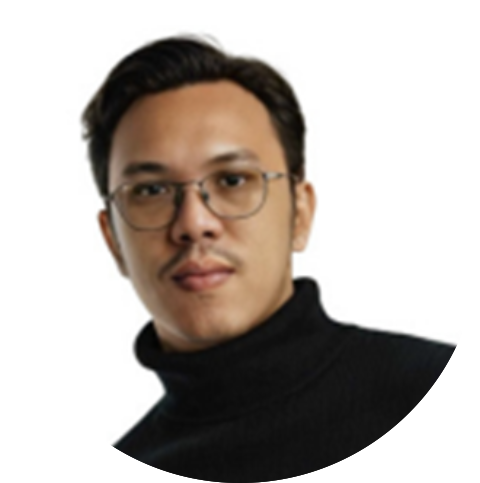
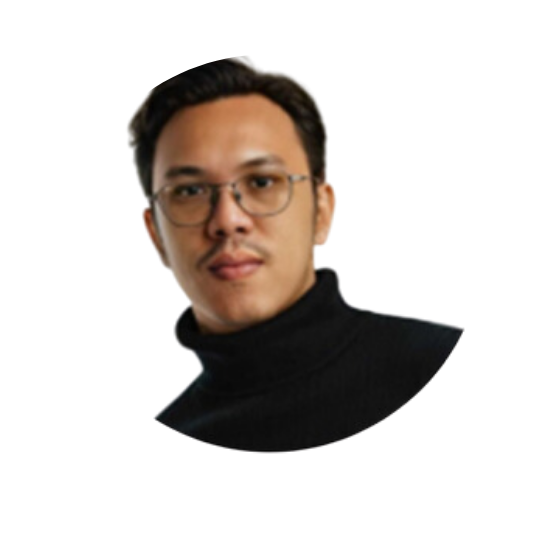
Pics updated and job titles as well

diff --git a/src/components/Team/index.tsx b/src/components/Team/index.tsx
@@ -6,9 +6,9 @@ const teamData: TeamType[] = [
   {
     id: 1,
     name: "Efren Melchor III",
-    designation: "Virtual Assistant",
-    image: "/images/team/Melchor_Efren.png",
-    skills: ["Virtual Assistance", "Social Media Management", "Content Creation"],
+    designation: "Market and Social Media Coordinator",
+    image: "/images/team/Melchor_EfrenIII.png",
+    skills: ["Marketing Data Analysis", "Email Campaign Management", "Lead Management & Prospecting"],
     description: "Committed to continuous learning and delivering top-notch service with enthusiasm for new opportunities.",
     facebookLink: "/#",
     twitterLink: "/#",
@@ -17,9 +17,9 @@ const teamData: TeamType[] = [
   {
     id: 2,
     name: "Michael Pinzon",
-    designation: "Administrative Tools Specialist",
+    designation: "SEO Specialist and Social Media Coordinator",
     image: "/images/team/Pinzon_Michael.png",
-    skills: ["Administrative Tools", "Creative Software", "Optimization"],
+    skills: ["SEO Optimization", "Social Media Management", "Content Creation"],
     description: "Excels at developing and executing strategic plans to enhance client revenue through optimization and data analysis.",
     facebookLink: "/#",
     twitterLink: "/#",
@@ -28,9 +28,9 @@ const teamData: TeamType[] = [
   {
     id: 3,
     name: "Annamoira Homilda",
-    designation: "Data Management Specialist",
+    designation: "Operations and Recruitment Coordinator",
     image: "/images/team/Homilda_Annamoira.png",
-    skills: ["Administrative Tools", "Creative Software", "Data Management"],
+    skills: ["Google Voice Conversations", "Data Entry", "Delivery Route Planning"],
     description: "Dedicated and reliable, thriving in busy environments with strong attention to detail and organizational skills.",
     facebookLink: "/#",
     twitterLink: "/#",
@@ -49,10 +49,10 @@ const teamData: TeamType[] = [
   },
   {
     id: 5,
-    name: "Leneth Logroño",
-    designation: "Creative Software Specialist",
+    name: "Anne Leneth Logroño",
+    designation: "Brand Manager Support Lead",
     image: "/images/team/Logroño_Leneth.png",
-    skills: ["Creative Software", "Administrative Tools", "Marketing Platforms"],
+    skills: ["Social Media Metrics", "Content Creation", "Team Leadership"],
     description: "Strong organizational skills with proven ability to train teams on metrics and product analytics.",
     facebookLink: "/#",
     twitterLink: "/#",
@@ -61,9 +61,9 @@ const teamData: TeamType[] = [
   {
     id: 6,
     name: "Emmanuel Alanis",
-    designation: "Web Developer",
+    designation: "Operations and Full Stack Developer",
     image: "/images/team/Alanis_Emmanuel.png",
-    skills: ["Web Development", "Problem-Solving", "Operations Management"],
+    skills: ["Web Development", "Problem Resolution", "Team Leadership"],
     description: "Streamlines food orders, manages driver communication, and oversees food drives while enhancing customer experiences.",
     facebookLink: "/#",
     twitterLink: "/#",
@@ -72,9 +72,9 @@ const teamData: TeamType[] = [
   {
     id: 7,
     name: "Fernando Cardenas",
-    designation: "Administrative Tools Specialist",
+    designation: "Operations and Web Development",
     image: "/images/team/Cardenas_Fernando.png",
-    skills: ["Administrative Tools", "Web Development", "Problem Solving"],
+    skills: ["Communication", "Team Work", "Web Development"],
     description: "Experienced in customer service, logistics, and administrative skills, currently expanding web development expertise.",
     facebookLink: "/#",
     twitterLink: "/#",
@@ -83,9 +83,9 @@ const teamData: TeamType[] = [
   {
     id: 8,
     name: "Maria Noreen Yap",
-    designation: "Marketing Specialist",
+    designation: "Marketing Coordinator",
     image: "/images/team/Yap_Maria_Noreen.png",
-    skills: ["Marketing Skills", "Operations Management", "Administrative Tools"],
+    skills: ["Marketing Skills", "Operations Management", "Reliability & Resourcefulness"],
     description: "Drives impactful email campaigns and optimizes automation processes through cross-functional collaboration.",
     facebookLink: "/#",
     twitterLink: "/#",
@@ -94,9 +94,9 @@ const teamData: TeamType[] = [
   {
     id: 9,
     name: "Gilbert Bautista",
-    designation: "General Virtual Assistant",
+    designation: "Senior Brand Manager",
     image: "/images/team/Bautista_Gilbert.png",
-    skills: ["Brand Management", "Product Management", "Project Management"],
+    skills: ["Strategic Brand Management", "Cross-Functional Team Leadership", "Financial Management and Cost Control"],
     description: "Over 4 years of experience in brand management, product marketing, sales support, and graphic design.",
     facebookLink: "/#",
     twitterLink: "/#",
@@ -105,9 +105,9 @@ const teamData: TeamType[] = [
   {
     id: 10,
     name: "Rochelle Lean Tan",
-    designation: "Marketing Assistant",
+    designation: "Marketing Assistant Coordinator",
     image: "/images/team/Tan_Rochelle_Lean.png",
-    skills: ["Administrative Tools", "Creative Software", "Data Management"],
+    skills: ["Customer Service", "Marketing Campaigns", "Sales Support"],
     description: "Experienced in handling inbound and outbound calls, emails, and correspondences with strong communication skills.",
     facebookLink: "/#",
     twitterLink: "/#",
@@ -116,9 +116,9 @@ const teamData: TeamType[] = [
   {
     id: 11,
     name: "Romelita Fabian",
-    designation: "Customer Service Specialist",
+    designation: "Customer Service & Sales Support Specialist",
     image: "/images/team/Fabian_Romelita.png",
-    skills: ["Customer Service Skills", "Sales Skills", "Adaptability"],
+    skills: ["Customer Service Skills", "MS Software (Excel, Word & PP)", "Technical Support Skills"],
     description: "Confident and ambitious professional with extensive experience in Sales, Marketing, and Customer Service.",
     facebookLink: "/#",
     twitterLink: "/#",
@@ -127,9 +127,9 @@ const teamData: TeamType[] = [
   {
     id: 12,
     name: "Bryan Toralba",
-    designation: "Project Manager",
+    designation: "Brand Manager Support Specialist",
     image: "/images/team/Toralba_Bryan.png",
-    skills: ["Project Management", "Problem Solving", "Creativity"],
+    skills: ["Brand Management", "Project Coordination", "Technical Support"],
     description: "Punctual and adaptable with excellent problem-solving abilities and clear communication skills.",
     facebookLink: "/#",
     twitterLink: "/#",
@@ -138,9 +138,9 @@ const teamData: TeamType[] = [
   {
     id: 13,
     name: "Trishelle Batingana",
-    designation: "Customer Service Specialist",
+    designation: "Brand Manager Support Specialist",
     image: "/images/team/Batingana_Trishelle.png",
-    skills: ["Customer Service", "Sales Support", "Graphic Design"],
+    skills: ["Customer Service", "Digital Marketing", "Graphic Design"],
     description: "Focuses on delivering quality work and meeting deadlines efficiently, both independently and in team environments.",
     facebookLink: "/#",
     twitterLink: "/#",
@@ -148,9 +148,9 @@ const teamData: TeamType[] = [
   },
   {
     id: 14,
-    name: "Bon Gonsalez",
-    designation: "Marketing Specialist",
-    image: "/images/team/Gonsalez_Bon.png",
+    name: "Bon Gonzales",
+    designation: "Brand Manager",
+    image: "/images/team/Gonzales_Bon.png",
     skills: ["Marketing Campaigns", "Financial Analysis", "Customer Support"],
     description: "Enjoys collaborating with teams and taking initiative in independent work, focusing on quality and efficiency.",
     facebookLink: "/#",
